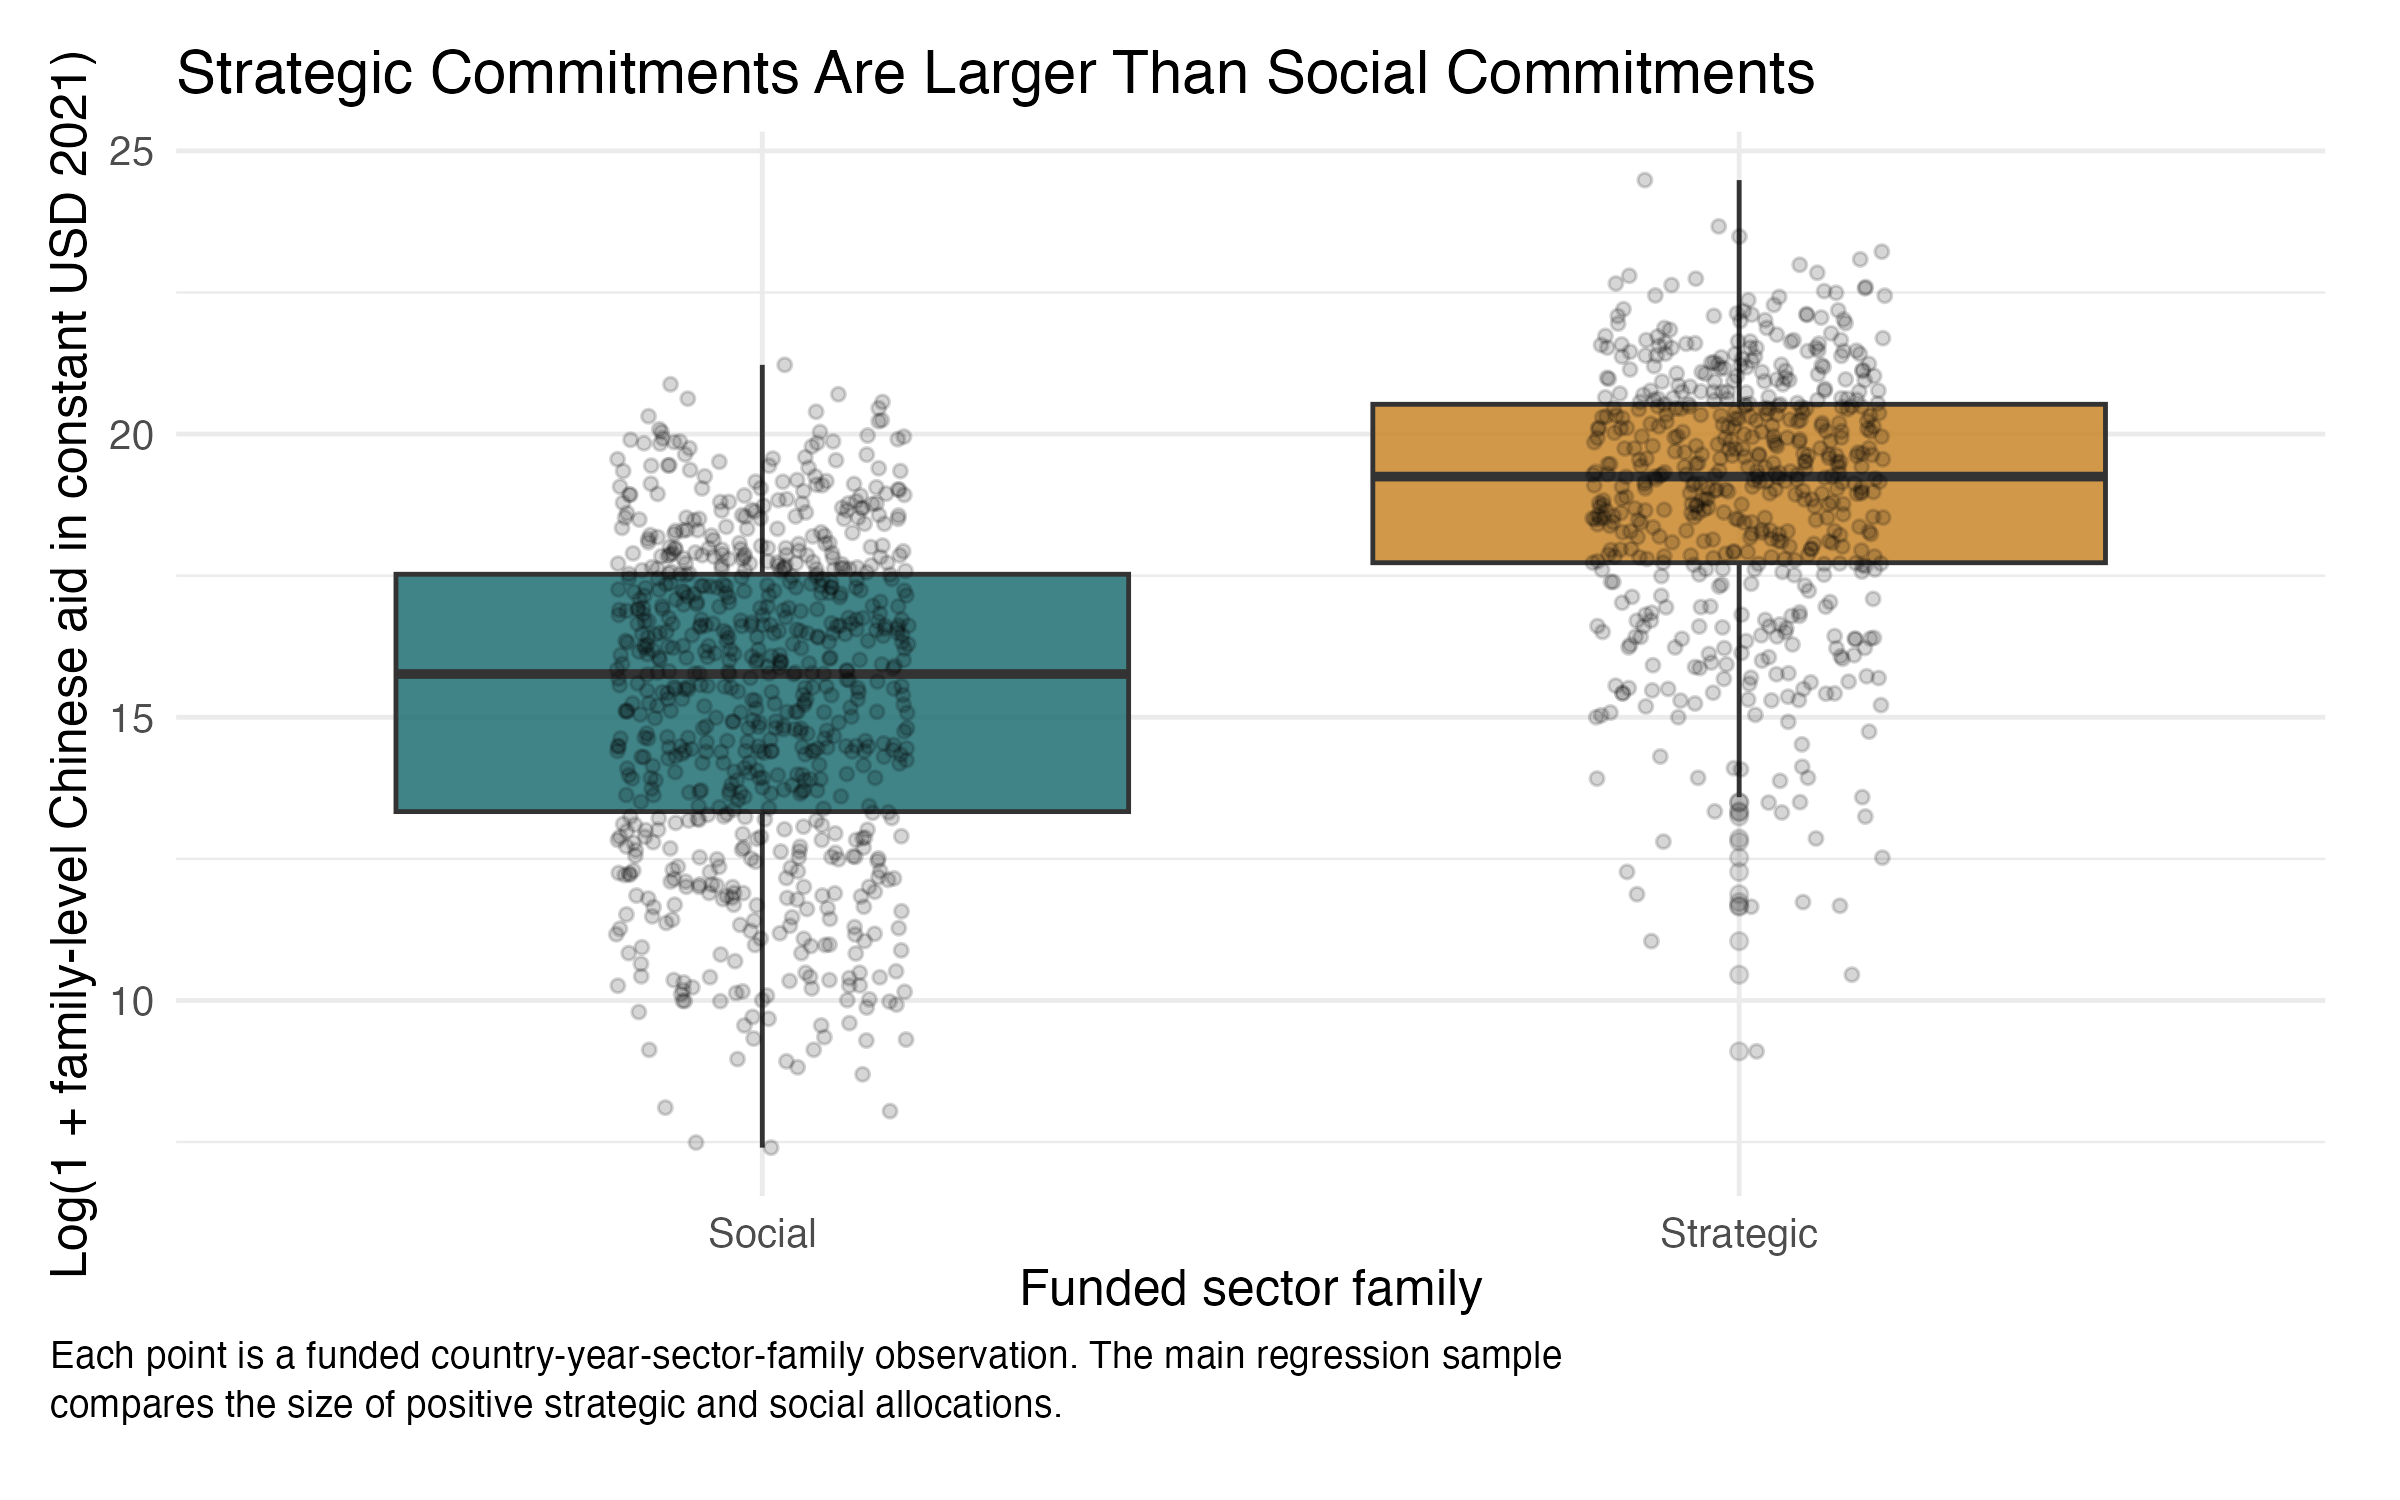
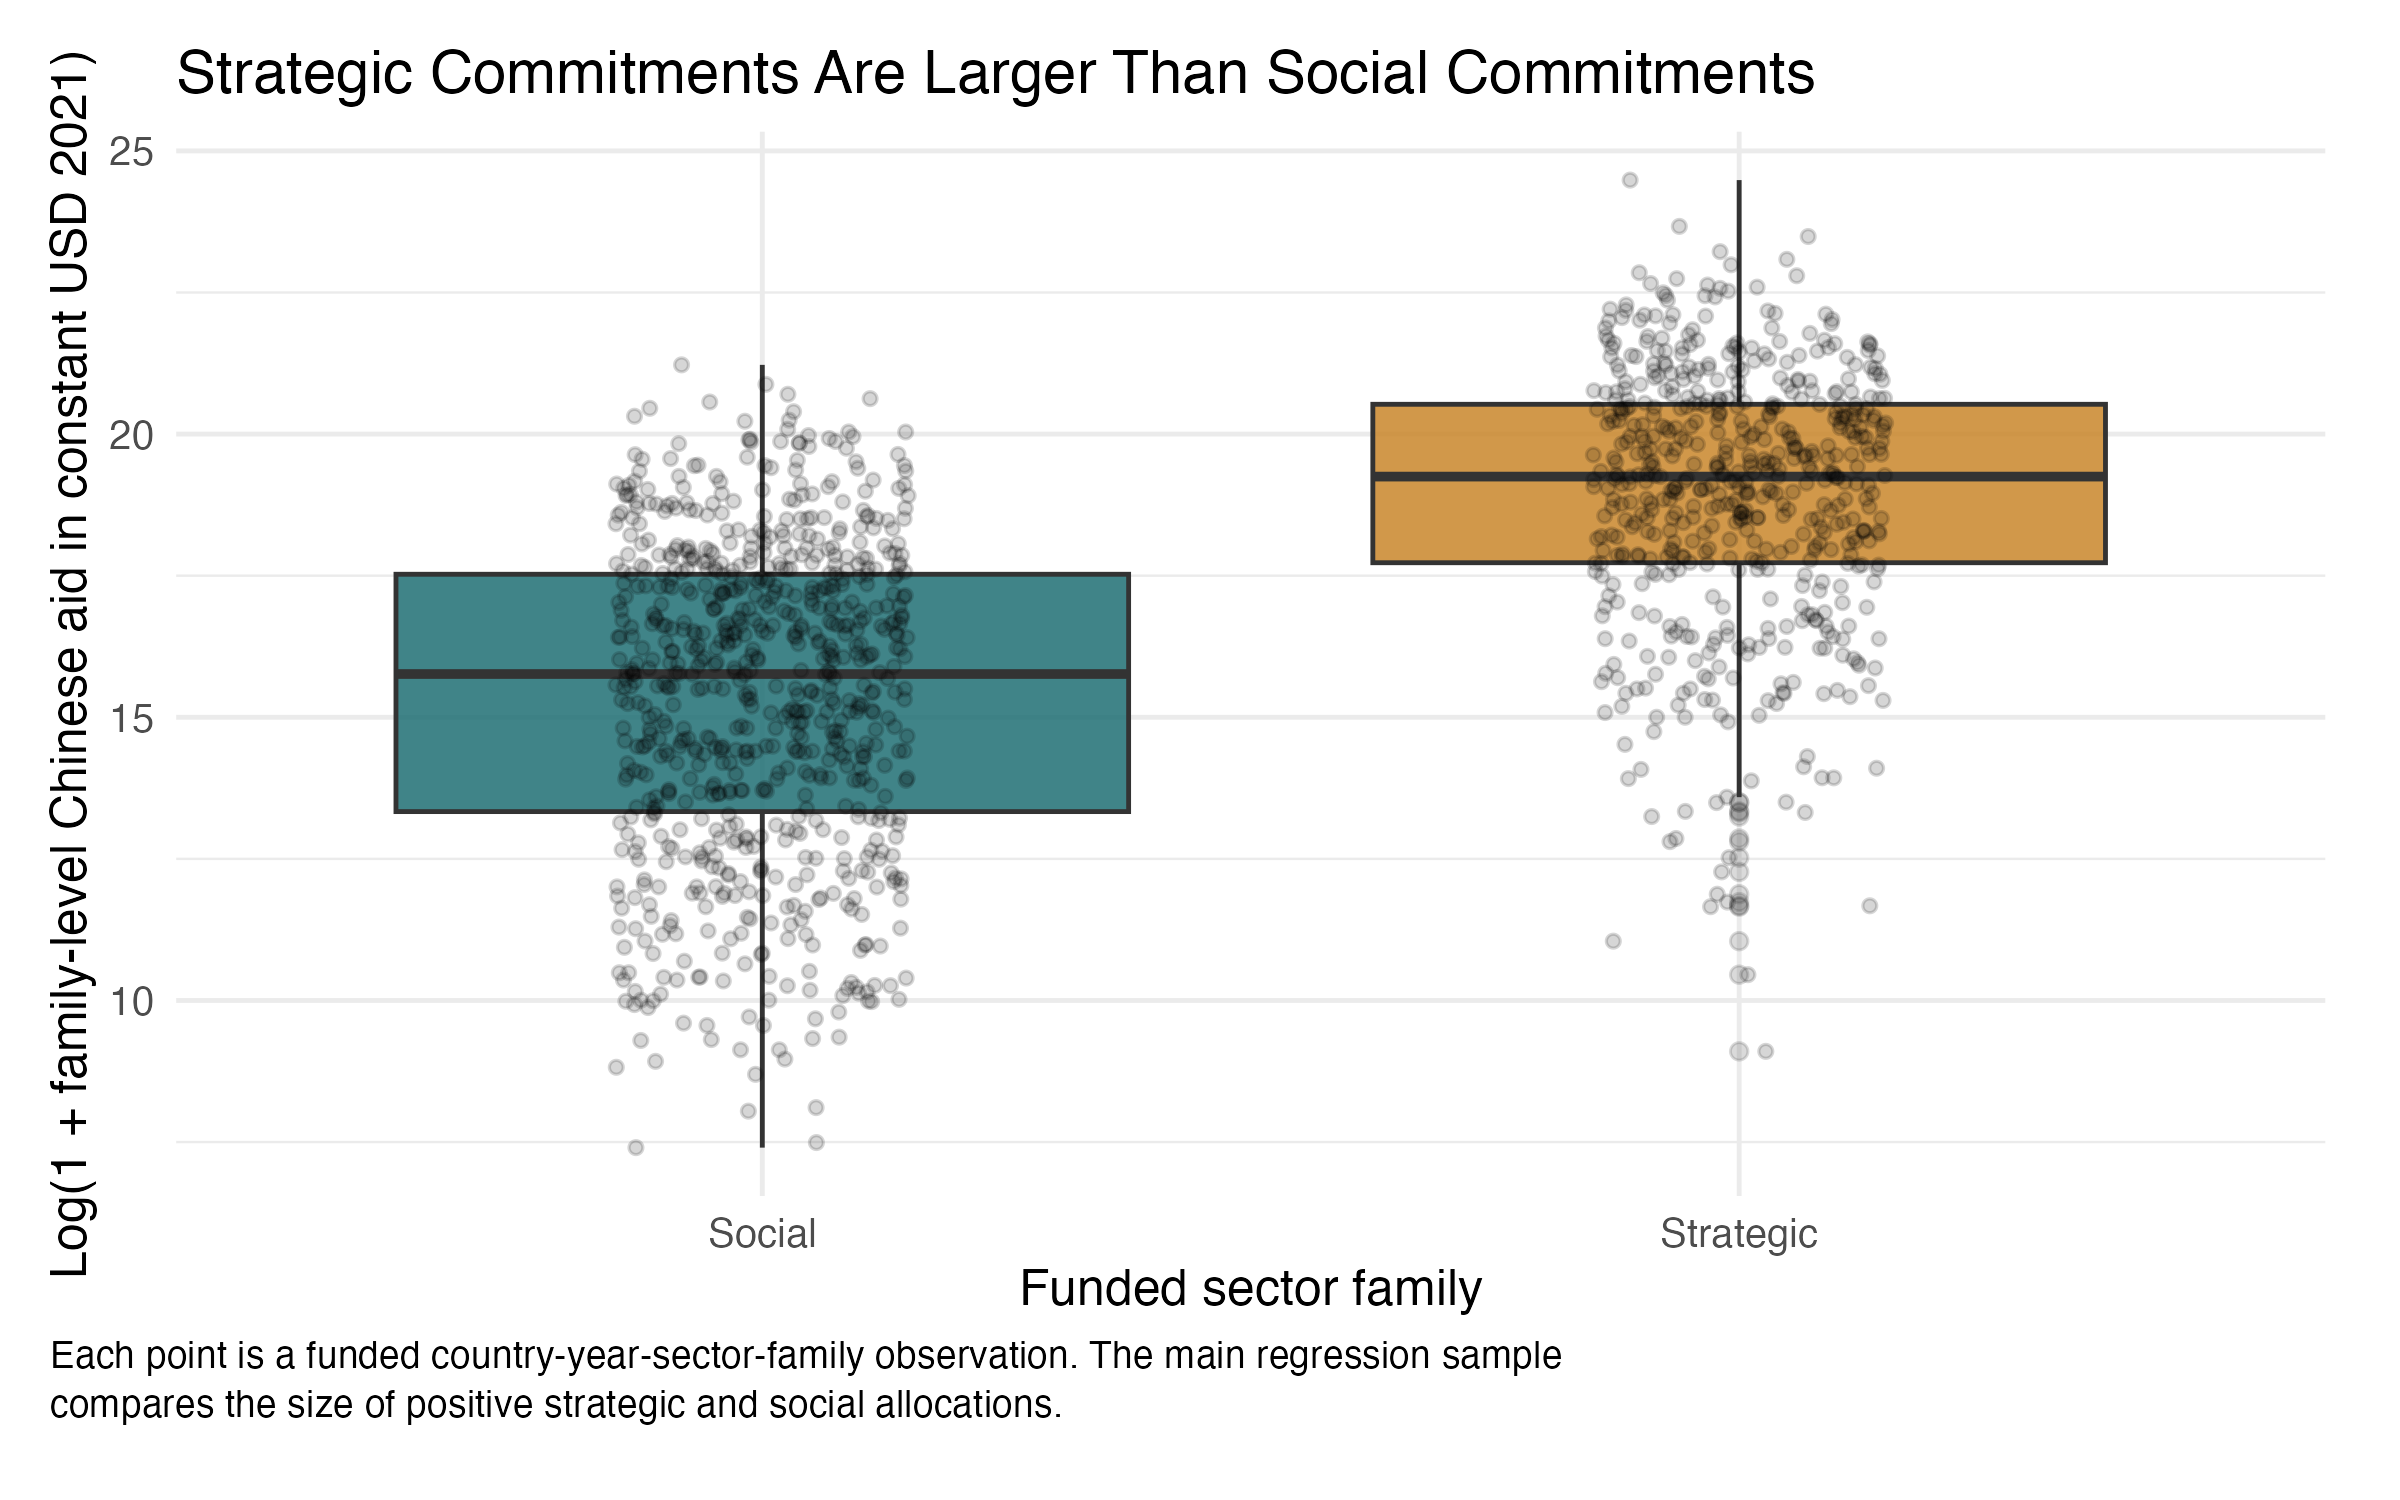
Add regression inequality graphs

Changed region(s): [[0.25, 0.2453, 0.4062, 0.7667], [0.6562, 0.1533, 0.8125, 0.6133]]

diff --git a/economic_targeting_memo_outline.md b/economic_targeting_memo_outline.md
@@ -78,6 +78,7 @@ Recommended theory:
 - Strategic sectors such as mining-related industry, energy, and transport can generate direct commercial value for the donor or reduce the cost of moving commodities, energy, and goods.
 - These sectors also align with large, capital-intensive project finance, where Chinese state lenders and firms are especially active.
 - Social sectors can still receive aid, but if China is driven heavily by economic statecraft, the scale of commitments should be much larger in strategic sectors.
+- Because these sectors often generate concentrated rents and rely less on broad social provision, they can also be linked in theory to inequality-preserving or inequality-worsening development paths, even if this dataset does not directly estimate post-aid inequality changes.
 
 Suggested hypotheses:
 
@@ -180,6 +181,7 @@ Interpretation:
 - The effect remains strong even after country and year fixed effects and even in the within-country-year comparison.
 - Because the dependent variable is logged, the coefficients imply a very large multiplicative gap in aid size, not a small marginal difference.
 - A careful conclusion is that Chinese aid is not literally exclusive to strategic sectors, but the **financial scale** of Chinese aid is overwhelmingly concentrated there.
+- The inequality angle should be stated carefully: the targeting pattern is present across low- and high-inequality settings, but this design does not on its own prove that Chinese aid later causes inequality to rise.
 
 Suggested paragraph starter:
 
@@ -200,6 +202,7 @@ Limitations to include:
 - Strategic sectors are defined by sector codes, which is an analytically defensible but still simplified proxy for donor-benefiting investment.
 - The design does not directly observe contract terms, commodity collateral, or project-level bargaining motives.
 - Reverse interpretation is still possible: some sectors may receive large flows because recipient demand is high, not only because China prefers them.
+- The inequality claim is also limited: Gini is observed contemporaneously as a country-year characteristic, so the current analysis cannot establish that Chinese aid increases inequality after the fact.
 
 Conclusion points:
 
@@ -224,8 +227,10 @@ Overall, the evidence suggests that Chinese development finance is best understo
 ### Main memo items
 
 - `Figure 1:` `output/economic_targeting/economic_targeting_family_barplot.png`
-- `Figure 2:` `output/economic_targeting/economic_targeting_family_boxplot.png`
-- `Figure 3:` `output/economic_targeting/economic_targeting_country_year_ratio_hist.png`
+- `Figure 2:` `output/economic_targeting/economic_targeting_regression_coefficient_plot.png`
+- `Figure 3:` `output/economic_targeting/economic_targeting_family_boxplot.png`
+- `Figure 4:` `output/economic_targeting/economic_targeting_inequality_quartile_plot.png`
+- `Figure 5:` `output/economic_targeting/economic_targeting_country_year_ratio_hist.png`
 - `Table 1:` `output/economic_targeting/economic_targeting_regression_table.html`
 - `Table 2:` `output/economic_targeting/economic_targeting_family_breakdown.csv`
 

diff --git a/README_economic_targeting.md b/README_economic_targeting.md
@@ -84,6 +84,12 @@ Rscript economic_targeting_analysis.R
 
 Substantively, the strictest country-year fixed-effects model implies that, within the same country-year, strategic-sector commitments are still much larger than social-sector commitments.
 
+## Inequality Link
+
+- The current design includes the Gini index as a control, but it does **not** identify whether Chinese aid causally raises inequality over time.
+- What it does show is that the strategic-sector premium persists across the inequality distribution rather than appearing only in low-inequality settings.
+- This supports a careful argument for the memo: Chinese aid is heavily concentrated in sectors that can reinforce unequal growth or elite-centered rents, but the present dataset is better suited to showing **allocation patterns** than causal changes in inequality.
+
 ## Output Files
 
 Generated in `output/economic_targeting/`:
@@ -106,9 +112,12 @@ Generated in `output/economic_targeting/`:
 - `economic_targeting_assumption_summary.csv`
 - `economic_targeting_cooks_distance_top10.csv`
 - `economic_targeting_family_barplot.png`
+- `economic_targeting_regression_coefficient_plot.png`
 - `economic_targeting_sector_barplot.png`
 - `economic_targeting_family_boxplot.png`
 - `economic_targeting_country_year_ratio_hist.png`
+- `economic_targeting_inequality_quartiles.csv`
+- `economic_targeting_inequality_quartile_plot.png`
 - `economic_targeting_residuals_vs_fitted_m2.png`
 - `economic_targeting_qqplot_m2.png`
 - `economic_targeting_cooks_distance_m2.png`
